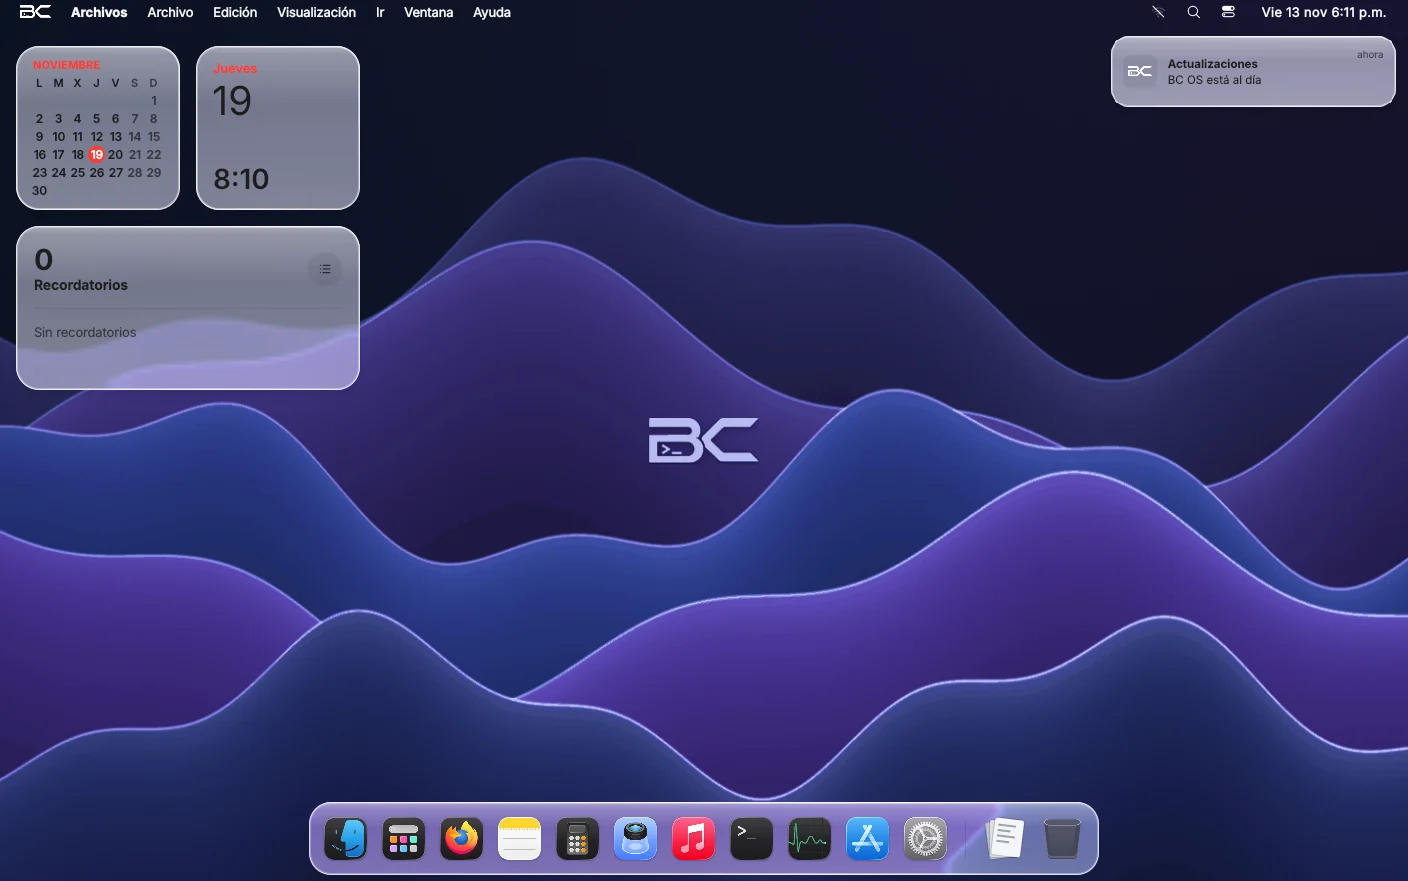
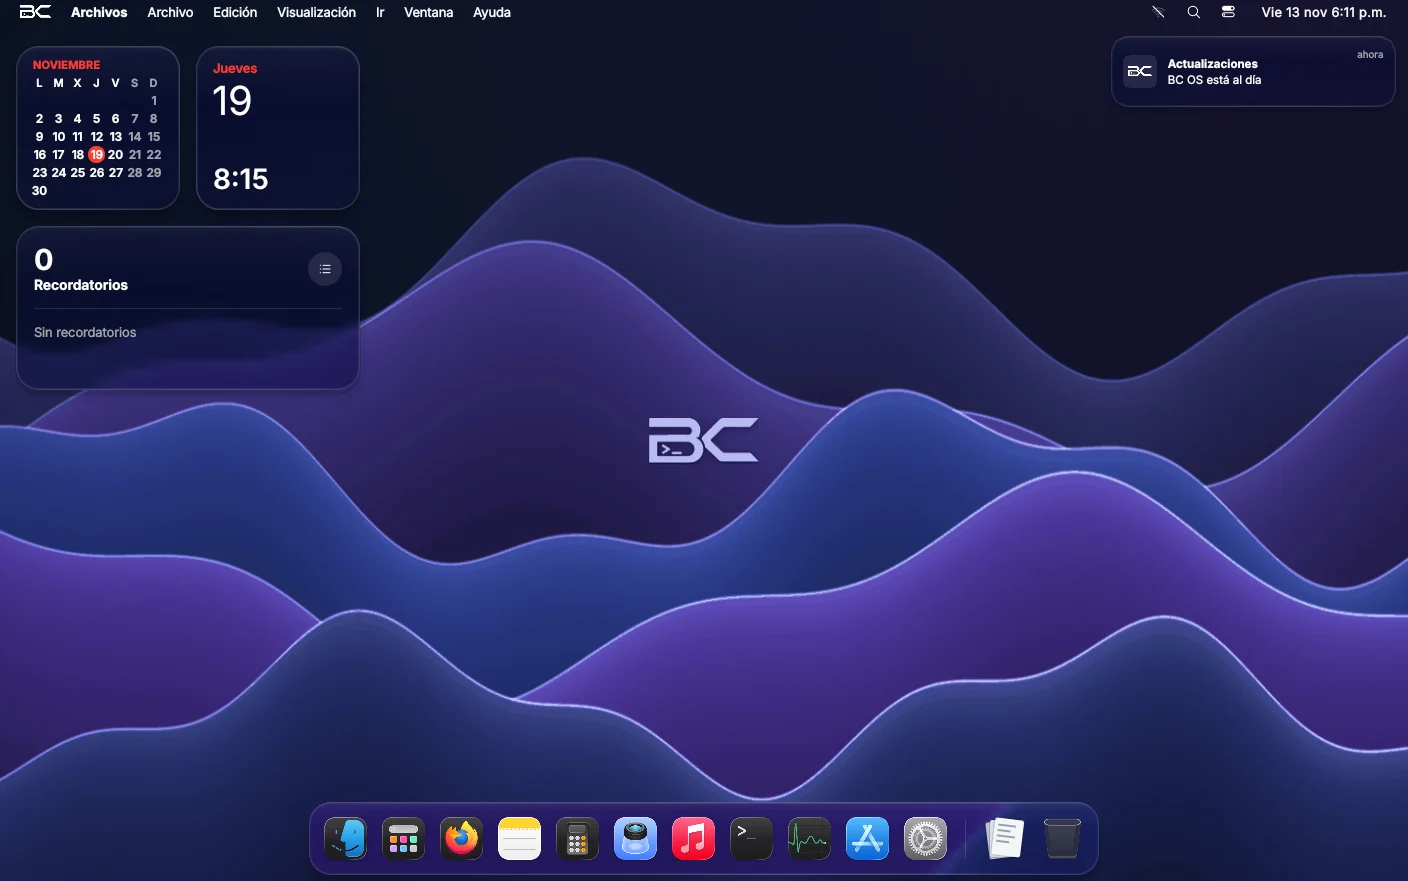
BC OS 0.9.19: Liquid Glass como macOS

Changed region(s): [[0.0, 0.0306, 0.2812, 0.4597], [0.2188, 0.8888, 0.7812, 1.0], [0.7812, 0.0306, 1.0, 0.1226]]

diff --git a/bcos/index.html b/bcos/index.html
@@ -482,7 +482,7 @@ footer a:hover{color:var(--label)}
     <p class="eyebrow" data-reveal>Versiones</p>
     <h2 class="h2" data-reveal>De alpha a beta, paso a paso.</h2>
     <ol class="tl">
-      <li data-reveal><b>0.9.19-beta</b><em>en preparación</em><p>Genio más ligero al minimizar (capa del tamaño justo, sin restos) , Forzar salida de las aplicaciones (Ctrl+Alt+Esc) , pista de la contraseña en el login , buscar en Notas con resaltado amarillo , controles más fieles a macOS , selector de emoji (Ctrl+Súper+Espacio) , pestañas con «+» en Archivos , barra de franjas en la Tienda, bspwm arreglado con Alacritty y menús de Wi-Fi, sonido, Bluetooth, batería y calendario en la barra, controladores del equipo al instalar, elegir motor gráfico , iconos nuevos (alias, candado, discos, Bluetooth, Instantáneas) y cristal alineado con el fondo.</p></li>
+      <li data-reveal><b>0.9.19-beta</b><em>en preparación</em><p>Genio más ligero al minimizar (capa del tamaño justo, sin restos) , Forzar salida de las aplicaciones (Ctrl+Alt+Esc) , pista de la contraseña en el login , buscar en Notas con resaltado amarillo , controles más fieles a macOS , selector de emoji (Ctrl+Súper+Espacio) , pestañas con «+» en Archivos , barra de franjas en la Tienda, bspwm arreglado con Alacritty y menús de Wi-Fi, sonido, Bluetooth, batería y calendario en la barra, controladores del equipo al instalar, elegir motor gráfico , iconos nuevos (alias, candado, discos, Bluetooth, Instantáneas) y Liquid Glass como macOS (muy difuminado, tinte oscuro y en tiempo real con Hyprland).</p></li>
       <li class="now" data-reveal><b>0.9.18-beta</b><em>prerelease · última · solo ISO</em><p>Sin microcortes en VirtualBox (cortes cada 2 s, cristal que se recalculaba con cualquier ajuste, sin lente ni genio sin GPU), Terminal que maximiza, más fluido en máquinas virtuales (sway ligero, genio 4× más barato), firmware de gráficas en PCs reales, cristal con tinte del fondo, fondos de día y noche, claro/oscuro con fundido, globos de avisos y progreso de la Tienda en el Dock, punto de micrófono y cámara, Reducir transparencia y Aumentar contraste.</p></li>
       <li data-reveal><b>0.9.17-beta</b><em>prerelease · solo ISO</em><p>yay de serie, zoom con doble clic, menús del escritorio (información, renombrar, copiar, pegar), arrastrar a la Papelera, nube «poof» del Dock, miniatura flotante de capturas, barras de desplazamiento y rebote como macOS, Firefox con botón amarillo y verde, Hyprland con varias pantallas y widgets visibles, Tienda que instala, NVIDIA/nouveau estable y resolución nativa a la primera.</p></li>
       <li data-reveal><b>0.9.16-beta</b><em>prerelease</em><p>Liquid Glass nuevo (refracción con lente, aberración cromática y brillo en el filo, como liquid-glass-react), Dock que se reordena como macOS, minimizadas con miniatura real, fish con colores y actualizaciones sin conflictos.</p></li>
